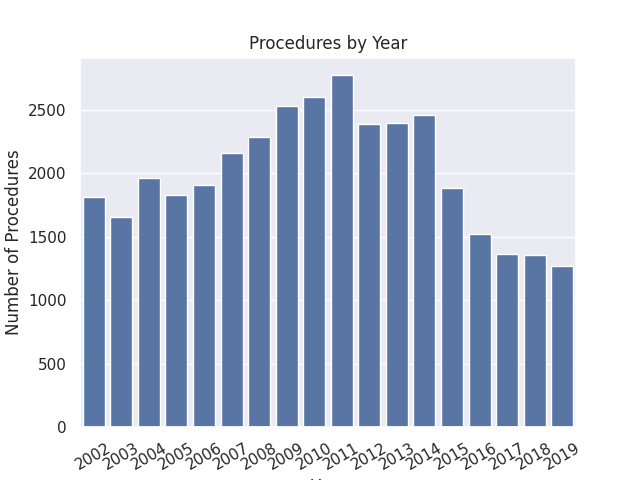
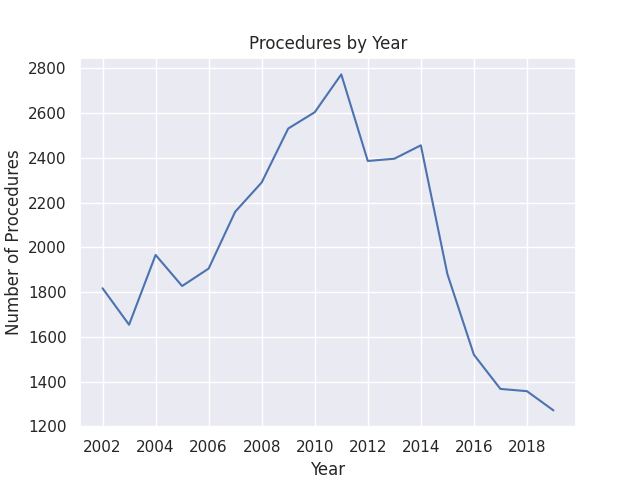
Change fig1 to linegraph

diff --git a/src/nistd/reporting/fig1.py b/src/nistd/reporting/fig1.py
@@ -2,6 +2,7 @@ import pandas as pd
 from nistd.dataProcessing import get_dtypes
 import seaborn as sns
 import matplotlib.pyplot as plt
+from matplotlib.ticker import MaxNLocator
 
 if __name__ == "__main__":
     filtered_df = pd.read_csv(
@@ -16,8 +17,9 @@ if __name__ == "__main__":
     counts_df.columns = ["Year", "Number of Procedures"]
 
     sns.set_theme()
-    ax = sns.barplot(x="Year", y="Number of Procedures", data=counts_df, color="b")
-    ax.set_xticklabels(ax.get_xticklabels(), rotation=30)
+    ax = sns.lineplot(x="Year", y="Number of Procedures", data=counts_df, color="b")
+    # ax.set_xticklabels(ax.get_xticklabels(), rotation=30)
+    ax.xaxis.set_major_locator(MaxNLocator(integer=True))
     ax.set_title("Procedures by Year")
 
     plt.savefig("results/fig1.png")
